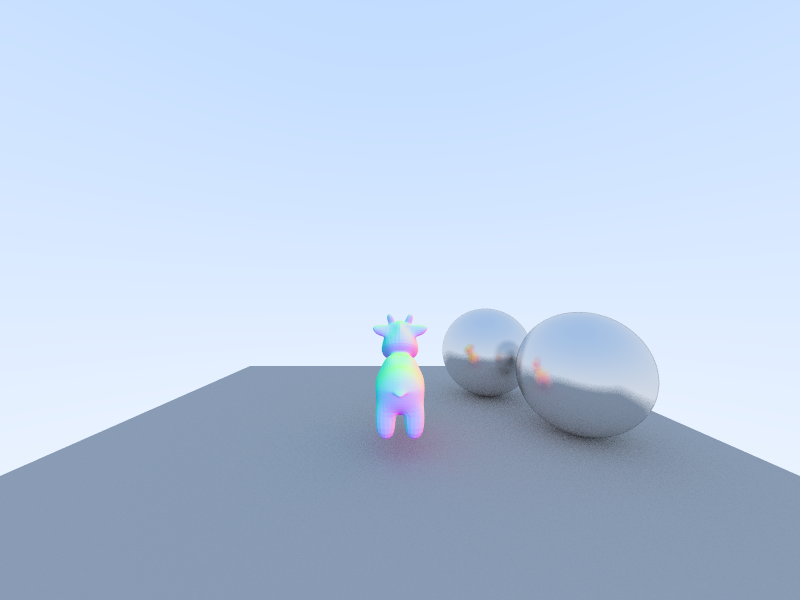
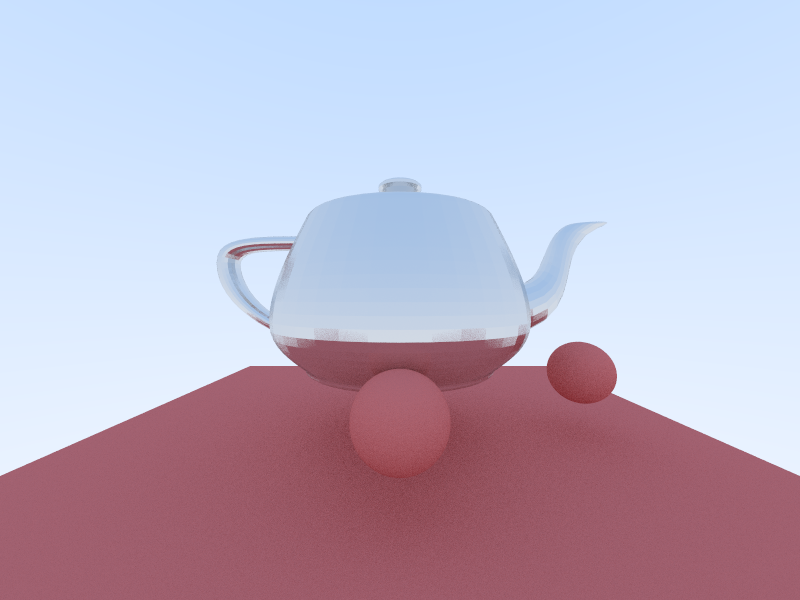
Metal Material

diff --git a/src/Content/Scene.cpp b/src/Content/Scene.cpp
@@ -13,11 +13,11 @@
 
 Scene::Scene() {
     std::shared_ptr<DiffuseMat> defMat = std::make_shared<DiffuseMat>();
-    defMat->setDiffuseColor(glm::vec3(0.5));
-    std::shared_ptr<MetalMat> metalMat = std::make_shared<MetalMat>(glm::vec3(0.8, 0.8, 0.8));
+    defMat->setDiffuseColor(glm::vec3(0.7, 0.2, 0.2));
+    std::shared_ptr<MetalMat> metalMat = std::make_shared<MetalMat>(glm::vec3(0.8, 0.8, 0.8), 0.15f);
     std::shared_ptr<NormalMat> normalMat = std::make_shared<NormalMat>();
-    auto sphere = std::make_shared<Sphere>(glm::vec3(3, 0, 0), 1, metalMat);
-    auto sphere2 = std::make_shared<Sphere>(glm::vec3(2, 0, -2), 1, metalMat);
+    auto sphere = std::make_shared<Sphere>(glm::vec3(3, 0, 0), 0.5, defMat);
+    auto sphere2 = std::make_shared<Sphere>(glm::vec3(0, 0, 2), 0.5, defMat);
     auto tri1 = std::make_shared<Triangle>(glm::vec3(-5, -1, 5), glm::vec3(5, -1, 5), glm::vec3(5, -1, -5), defMat);
     auto tri2 = std::make_shared<Triangle>(glm::vec3(-5, -1, 5), glm::vec3(-5, -1, -5), glm::vec3(5, -1, -5), defMat);
     _sceneObjects.push_back(sphere);
@@ -26,7 +26,7 @@ Scene::Scene() {
     _sceneObjects.push_back(tri2);
 
     objl::Loader loader;
-    loader.LoadFile("models/spot.obj");
+    loader.LoadFile("models/teapot.obj");
     for (auto mesh : loader.LoadedMeshes) {
         int sz = mesh.Indices.size();
         for (int i = 0; i < sz; i += 3) {
@@ -35,7 +35,7 @@ Scene::Scene() {
                 auto& p = mesh.Vertices[mesh.Indices[i + j]].Position;
                 vs.push_back(glm::vec3(p.X, p.Y, p.Z));
             }
-            _sceneObjects.push_back(std::make_shared<Triangle>(vs, normalMat));
+            _sceneObjects.push_back(std::make_shared<Triangle>(vs, metalMat));
         }
     }
     printf("%d\n", _sceneObjects.size());

diff --git a/src/Structure/Materials/MetalMat.cpp b/src/Structure/Materials/MetalMat.cpp
@@ -4,7 +4,7 @@ MetalMat::MetalMat() {
 }
 bool MetalMat::scatter(const Ray& ray, const IntersectionInfo& info, glm::vec3& attenuation, Ray& new_ray) {
     auto N = info.getNormal();
-    auto reflect = glm::normalize(glm::reflect(ray.getDir(), N) + randSphereVec() * 0.15f);
+    auto reflect = glm::normalize(glm::reflect(ray.getDir(), N) + randSphereVec() * _fuzz);
     attenuation = getDiffuseColor();
     new_ray = Ray(info.getHitPos() + reflect * 0.0001f, reflect);
     return glm::dot(reflect, N) > 0;

diff --git a/src/Structure/Materials/MetalMat.h b/src/Structure/Materials/MetalMat.h
@@ -3,6 +3,8 @@
 class MetalMat : public Material {
 public:
     MetalMat();
-    MetalMat(const glm::vec3& color) :Material(color) {}
+    MetalMat(const glm::vec3& color, float fuzz) :Material(color), _fuzz(fuzz) {}
     virtual bool scatter(const Ray& ray, const IntersectionInfo& info, glm::vec3& attenuation, Ray& new_ray) override;
+private:
+    float _fuzz;
 };
